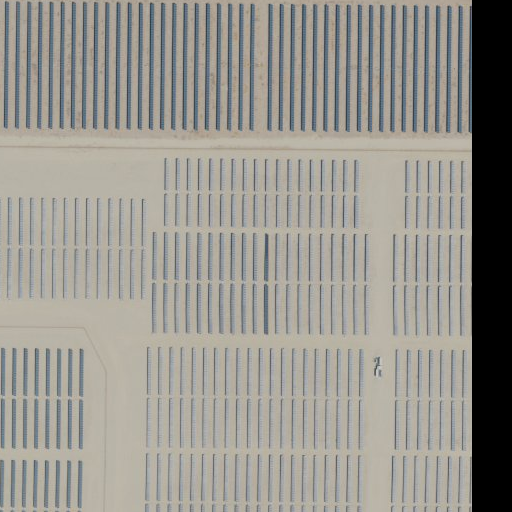
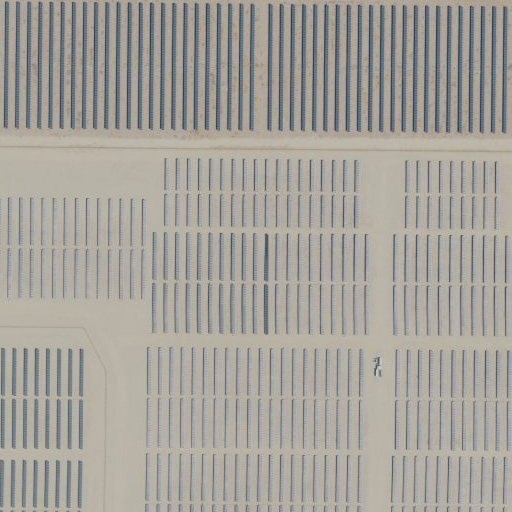
Cut every Chip from one NAIP tile that covers it, and zoom into Cases
7 of the 63 Chips were partly blank (8% to 66%): after its offset, the
Chip crossed the edge of the NAIP tile it was read from. find_naip now
returns the newest tile that covers the whole Chip, and cut_chip refuses
a Chip with blank pixels. The 8 affected Cases are rebuilt, and a test
keeps blank Chips out of the fixtures.

Each Case also gets its own page (#/cases/<id>): the Chip large with
1x/2x/4x zoom, its Reference Labels on the 3x3 grid, keyboard
navigation through the set, links to the same spot on current maps,
and what to check.

Changed region(s): [[0.9062, 0.0, 1.0, 1.0]]

diff --git a/src/clayzer/ui/static/app.js b/src/clayzer/ui/static/app.js
@@ -554,13 +554,116 @@ async function casesPage() {
     <p>The development ${term("Case")} set in the store (${cases.length}). Each Chip's ${term("Reference Label", "Reference Labels")}
     are what grounding checks Claims against; the Harness never sees them (ADR-0006).</p>
     ${cases.length ? "" : '<p class="empty">No Cases yet: <code>uv run clayzer case uspvdb &lt;site-id&gt;</code></p>'}
+    ${cases.length ? '<p class="sub">Click a Chip to open it large, with its labels on the grid and zoom.</p>' : ""}
     <div class="case-grid">${cases.map((c) => `<div class="case-card">
-      <img src="/api/chips/${encodeURIComponent(c.chip.id)}.png" alt="Chip ${esc(c.chip.id)}" loading="lazy">
-      <div class="body"><b>${esc(c.id)}</b><br><small class="mono">${esc(c.chip.id)} · NAIP ${esc(c.chip.date)} · ${esc(c.chip.source)}</small>
+      <a href="#/cases/${encodeURIComponent(c.id)}"><img src="/api/chips/${encodeURIComponent(c.chip.id)}.png" alt="Chip ${esc(c.chip.id)}" loading="lazy"></a>
+      <div class="body"><b><a href="#/cases/${encodeURIComponent(c.id)}">${esc(c.id)}</a></b><br><small class="mono">${esc(c.chip.id)} · NAIP ${esc(c.chip.date)} · ${esc(c.chip.source)}</small>
       <ul>${c.labels.map((l) => `<li>${l.count !== null ? `${esc(l.count)} × ` : ""}${esc(l.object.replace(/_/g, " "))}
         at ${esc(l.position)} <small>(${esc(l.source)})</small></li>`).join("") || "<li>no labels</li>"}</ul>
       <small>Built in ${f2(c.prep_seconds)} s</small></div></div>`).join("")}</div>`;
 }
+
+// ── One Case, large: for checking its Reference Labels by eye ────────────────────────
+
+const VIEW = { zoom: 1, grid: true, labels: true };
+
+function caseFigure(c) {
+  const C = 512 / 3;
+  const per = {};
+  const pills = VIEW.labels ? c.labels.map((l) => {
+    const i = CELLS.indexOf(l.position);
+    if (i < 0) return "";
+    const n = (per[l.position] = (per[l.position] || 0) + 1) - 1;
+    const x = (i % 3) * C + 8, y = Math.floor(i / 3) * C + 10 + n * 26;
+    const text = `${l.count !== null ? `${l.count} × ` : ""}${l.object.replace(/_/g, " ")}`;
+    return `<g class="pill ${l.source === "osm" ? "near" : "good"}"><rect x="${x}" y="${y}" width="${C - 16}" height="22" rx="11"/>
+      <text x="${x + (C - 16) / 2}" y="${y + 15}" text-anchor="middle">${esc(text)}</text></g>`;
+  }).join("") : "";
+  const covered = VIEW.labels ? new Set(c.labels.flatMap((l) => l.cells || [])) : new Set();
+  const refs = [...covered].map((cell) => {
+    const i = CELLS.indexOf(cell);
+    return i < 0 ? "" : `<rect class="ref" x="${(i % 3) * C + 3}" y="${Math.floor(i / 3) * C + 3}" width="${C - 6}" height="${C - 6}" rx="4"/>`;
+  }).join("");
+  const grid = VIEW.grid ? [1, 2].map((k) => `<line x1="${k * C}" y1="0" x2="${k * C}" y2="512"/><line x1="0" y1="${k * C}" x2="512" y2="${k * C}"/>`).join("") : "";
+  return `<div class="chip-fig${VIEW.zoom > 1 ? " zoomed" : ""}" style="width:${VIEW.zoom * 100}%">
+    <img src="/api/chips/${encodeURIComponent(c.chip.id)}.png" alt="Aerial image ${esc(c.chip.id)}">
+    <svg viewBox="0 0 512 512" aria-hidden="true"><g class="grid">${grid}</g><g>${refs}</g>${pills}</svg></div>`;
+}
+
+async function casePage(id) {
+  const me = SEQ;
+  const cases = await api("/api/cases");
+  if (stale(me)) return;
+  const i = cases.findIndex((c) => c.id === id);
+  if (i < 0) {
+    $view.innerHTML = `<p><a href="#/cases">← Cases</a></p><p class="empty">No Case ${esc(id)} in the store.</p>`;
+    return;
+  }
+  const c = cases[i];
+  const prev = cases[(i - 1 + cases.length) % cases.length].id, next = cases[(i + 1) % cases.length].id;
+  const [w, s, e, n] = c.chip.bbox;
+  const lat = ((s + n) / 2).toFixed(5), lon = ((w + e) / 2).toFixed(5);
+  const draw = () => {
+    document.getElementById("case-fig").innerHTML = caseFigure(c);
+    document.querySelectorAll("[data-zoom]").forEach((b) => b.setAttribute("aria-pressed", String(+b.dataset.zoom === VIEW.zoom)));
+    document.getElementById("t-grid").checked = VIEW.grid;
+    document.getElementById("t-labels").checked = VIEW.labels;
+  };
+  $view.innerHTML = `<p><a href="#/cases">← Cases</a> · ${i + 1} of ${cases.length} ·
+      <a href="#/cases/${encodeURIComponent(prev)}">← previous</a> · <a href="#/cases/${encodeURIComponent(next)}">next →</a></p>
+    <h1>${esc(c.id)}</h1>
+    <div class="case-view">
+      <div>
+        <div class="case-tools">
+          <span>Zoom ${[1, 2, 4].map((z) => `<button type="button" class="btn secondary" data-zoom="${z}">${z}×</button>`).join("")}</span>
+          <label><input type="checkbox" id="t-grid"> grid</label>
+          <label><input type="checkbox" id="t-labels"> labels</label>
+          <small>Keys: ← → Case · + − zoom · g grid · l labels</small>
+        </div>
+        <div class="case-zoom" id="case-zoom"><div id="case-fig"></div></div>
+        <p class="legend-row"><span><i class="dot good"></i>USGS label</span> <span><i class="dot near"></i>OpenStreetMap label</span>
+          <span><i class="sq"></i>cells the label covers</span></p>
+      </div>
+      <div>
+        <h3>Reference Labels</h3>
+        <ul>${c.labels.map((l) => `<li>${l.count !== null ? `${esc(l.count)} × ` : ""}${esc(l.object.replace(/_/g, " "))}
+          at ${esc(l.position)}${(l.cells || []).length > 1 ? ` <small>(covers ${l.cells.map((x) => esc(x.replace(/_/g, " "))).join(", ")})</small>` : ""}
+          <small>· ${esc(l.source)}</small></li>`).join("") || "<li>no labels: nothing mapped here</li>"}</ul>
+        <h3>Chip</h3>
+        <p class="mono">${esc(c.chip.id)}<br>NAIP ${esc(c.chip.date)} · ${esc(c.chip.source)}<br>${lat}, ${lon}</p>
+        <h3>Check it elsewhere</h3>
+        <p>Current imagery and maps at the Chip's centre (they may be newer than ${esc(c.chip.date.slice(0, 4))}):<br>
+          <a href="https://www.google.com/maps/@${lat},${lon},400m/data=!3m1!1e3" target="_blank" rel="noopener">Google satellite</a> ·
+          <a href="https://www.openstreetmap.org/?mlat=${lat}&mlon=${lon}#map=17/${lat}/${lon}" target="_blank" rel="noopener">OpenStreetMap</a></p>
+        <h3>What to look for</h3>
+        <ul class="sub"><li>Is each label really there, in the cell it names?</li>
+          <li>Solar and wind counts: are the panels built and the turbines still standing?</li>
+          <li>Water: is there water, or a dry wash or lake bed?</li>
+          <li>Negatives: any small or rooftop solar USGS doesn't list?</li>
+          <li>Anything obvious with no label (buildings, roads, fields)?</li></ul>
+      </div>
+    </div>`;
+  draw();
+  document.querySelectorAll("[data-zoom]").forEach((b) => b.addEventListener("click", () => { VIEW.zoom = +b.dataset.zoom; draw(); }));
+  document.getElementById("t-grid").addEventListener("change", (ev) => { VIEW.grid = ev.target.checked; draw(); });
+  document.getElementById("t-labels").addEventListener("change", (ev) => { VIEW.labels = ev.target.checked; draw(); });
+  CASE_KEYS = { prev, next, draw };
+}
+
+let CASE_KEYS = null;
+document.addEventListener("keydown", (ev) => {
+  if (!CASE_KEYS || !location.hash.startsWith("#/cases/") || ev.target.matches("input, textarea, select")) return;
+  const zooms = [1, 2, 4];
+  if (ev.key === "ArrowLeft") location.hash = `#/cases/${encodeURIComponent(CASE_KEYS.prev)}`;
+  else if (ev.key === "ArrowRight") location.hash = `#/cases/${encodeURIComponent(CASE_KEYS.next)}`;
+  else if (ev.key === "+" || ev.key === "=") VIEW.zoom = zooms[Math.min(zooms.indexOf(VIEW.zoom) + 1, 2)];
+  else if (ev.key === "-") VIEW.zoom = zooms[Math.max(zooms.indexOf(VIEW.zoom) - 1, 0)];
+  else if (ev.key === "g") VIEW.grid = !VIEW.grid;
+  else if (ev.key === "l") VIEW.labels = !VIEW.labels;
+  else return;
+  ev.preventDefault();
+  if (document.getElementById("case-fig")) CASE_KEYS.draw();
+});
 
 async function batchesPage() {
   const me = SEQ;
@@ -892,6 +995,7 @@ async function route() {
     if (page === "") await overview();
     else if (page === "how") await howPage(parts[1]);
     else if (page === "tasks") await tasksPage(parts[1]);
+    else if (page === "cases" && parts[1]) await casePage(parts[1]);
     else if (page === "cases") await casesPage();
     else if (page === "batches" && parts[1]) await batchPage(parts[1], parts[2]);
     else if (page === "batches") await batchesPage();

diff --git a/src/clayzer/ui/static/style.css b/src/clayzer/ui/static/style.css
@@ -389,3 +389,14 @@ abbr { text-decoration: underline dotted; cursor: help; }
 .prov-run > summary { cursor: pointer; font-weight: 600; }
 .prov-run table { margin-top: 10px; }
 @media (max-width: 1000px) { .prov { grid-template-columns: 1fr; } }
+
+/* One Case, large: the Chip with zoom, its labels on the grid, and what to check. */
+.case-view { display: grid; grid-template-columns: minmax(0, 1.6fr) minmax(260px, 1fr); gap: 28px; align-items: start; }
+.case-tools { display: flex; flex-wrap: wrap; gap: 14px; align-items: center; margin-bottom: 8px; }
+.case-tools .btn { padding: 3px 10px; margin-left: 4px; }
+.case-tools .btn[aria-pressed="true"] { background: var(--ink); color: var(--paper); }
+.case-zoom { overflow: auto; max-height: min(78vh, 900px); border-radius: 10px; border: 1px solid var(--line); }
+.case-zoom .chip-fig { border-radius: 0; }
+.chip-fig.zoomed img { image-rendering: pixelated; }
+.case-card a img:hover { outline: 3px solid var(--decision); outline-offset: -3px; }
+@media (max-width: 900px) { .case-view { grid-template-columns: 1fr; } }

diff --git a/src/clayzer/chips.py b/src/clayzer/chips.py
@@ -11,6 +11,7 @@ Positions inside a Chip are pixel coordinates, column right and row down, north 
 
 import io
 import json
+import math
 import re
 from dataclasses import asdict, dataclass
 from datetime import date
@@ -25,6 +26,11 @@ from clayzer.grid import cell_at
 SIZE = 512
 RES = 0.6
 STAC = "https://planetarycomputer.microsoft.com/api/stac/v1"
+# Slack around a Chip's footprint when checking a NAIP item covers it, for the approximate
+# metres-to-degrees conversion.
+FOOTPRINT_MARGIN_M = 20.0
+# A Chip with more blank (all-zero) pixels than this is refused: it crossed a tile's edge.
+MAX_BLANK = 0.001
 
 
 @dataclass(frozen=True)
@@ -90,22 +96,56 @@ class Chip:
         return cls(**d)
 
 
-def find_naip(lon: float, lat: float, after_year: int | None = None):
-    """The latest NAIP item over a point, captured after `after_year` if given."""
+def chip_footprint(lon: float, lat: float, offset_m: tuple[float, float] = (0.0, 0.0)):
+    """The lon/lat box a Chip around (lon, lat), moved by `offset_m`, will cover, with a margin."""
+    from shapely.geometry import box
+
+    half = SIZE * RES / 2 + FOOTPRINT_MARGIN_M
+    m_lat, m_lon = 111_320.0, 111_320.0 * math.cos(math.radians(lat))
+    cx, cy = lon + offset_m[0] / m_lon, lat + offset_m[1] / m_lat
+    return box(cx - half / m_lon, cy - half / m_lat, cx + half / m_lon, cy + half / m_lat)
+
+
+def find_naip(
+    lon: float,
+    lat: float,
+    after_year: int | None = None,
+    offset_m: tuple[float, float] = (0.0, 0.0),
+):
+    """The latest NAIP item that covers the whole Chip around a point, captured after
+    `after_year` if given.
+
+    NAIP comes in tiles; a Chip that crosses a tile's edge would be read partly blank (seen
+    2026-11-04 on 7 of 63 Chips). So the item must cover the Chip's whole footprint, not just
+    the point; an older item that does is better than a newer one that doesn't.
+    """
     import planetary_computer
     import pystac_client
 
     catalog = pystac_client.Client.open(STAC, modifier=planetary_computer.sign_inplace)
     start = f"{after_year + 1}-01-01" if after_year else "2010-01-01"
+    footprint = chip_footprint(lon, lat, offset_m)
     items = catalog.search(
         collections=["naip"],
-        intersects={"type": "Point", "coordinates": [lon, lat]},
+        intersects=footprint.__geo_interface__,
         datetime=f"{start}/{date.today().isoformat()}",
     ).items()
-    items = sorted(items, key=lambda i: i.datetime, reverse=True)
-    if not items:
-        raise LookupError(f"no NAIP over ({lon}, {lat}) after {after_year}")
-    return items[0]
+    item = covering_item(list(items), footprint)
+    if item is None:
+        raise LookupError(
+            f"no NAIP item after {after_year} covers the whole Chip at ({lon}, {lat})"
+        )
+    return item
+
+
+def covering_item(items: list, footprint):
+    """The newest item whose footprint contains the Chip's, or None."""
+    from shapely.geometry import shape
+
+    for item in sorted(items, key=lambda i: i.datetime, reverse=True):
+        if shape(item.geometry).contains(footprint):
+            return item
+    return None
 
 
 # https://naipeuwest.blob.core.windows.net/naip/v002/ca/2022/ca_060cm_2022/35118/m_....tif
@@ -167,6 +207,11 @@ def offset_for(seed: str) -> tuple[float, float]:
     return round(-east, 1), round(-north, 1)
 
 
+def blank_share(rgb) -> float:
+    """The share of a (3, H, W) image's pixels that are blank: zero in every band."""
+    return float((rgb.max(axis=0) == 0).mean())
+
+
 def cut_chip(
     item,
     lon: float,
@@ -197,6 +242,9 @@ def cut_chip(
         rgb = ds.read([1, 2, 3], window=window, out_shape=(3, SIZE, SIZE), boundless=True)
         crs = ds.crs.to_string()
         bbox = transform_bounds(ds.crs, "EPSG:4326", left, cy - half, cx + half, top)
+    blank = blank_share(rgb)
+    if blank > MAX_BLANK:
+        raise ValueError(f"the Chip is {blank:.0%} blank: it crosses the edge of {item.id}")
 
     png = io.BytesIO()
     Image.fromarray(np.moveaxis(rgb, 0, -1)).save(png, format="PNG")

diff --git a/tests/test_chips.py b/tests/test_chips.py
@@ -1,0 +1,42 @@
+"""Chips come from one NAIP tile that covers them whole, never partly blank."""
+
+from datetime import datetime
+from types import SimpleNamespace
+
+import numpy as np
+from shapely.geometry import box
+
+from clayzer.chips import RES, SIZE, blank_share, chip_footprint, covering_item
+
+
+def item(name, year, bounds):
+    return SimpleNamespace(
+        id=name, datetime=datetime(year, 6, 1), geometry=box(*bounds).__geo_interface__
+    )
+
+
+def test_the_footprint_is_a_chip_wide_and_moves_with_the_offset():
+    f = chip_footprint(-118.0, 35.0)
+    w, s, _, n = f.bounds
+    assert (n - s) * 111_320 > SIZE * RES  # a Chip's height plus the margin
+    moved = chip_footprint(-118.0, 35.0, offset_m=(100.0, 0.0))
+    assert moved.bounds[0] > w and moved.bounds[1] == s
+
+
+def test_the_newest_tile_that_covers_the_whole_chip_wins():
+    footprint = chip_footprint(-118.0, 35.0)
+    edge = item("newest, but the Chip crosses its edge", 2022, (-118.0, 34.9, -117.9, 35.1))
+    whole = item("older, covers it", 2020, (-118.1, 34.9, -117.9, 35.1))
+    newer_whole = item("newer, covers it", 2022, (-118.05, 34.95, -117.95, 35.05))
+    assert covering_item([edge, whole], footprint) is whole
+    assert covering_item([edge, whole, newer_whole], footprint) is newer_whole
+    assert covering_item([edge], footprint) is None
+
+
+def test_blank_pixels_are_measured():
+    rgb = np.full((3, 10, 10), 120, dtype=np.uint8)
+    assert blank_share(rgb) == 0.0
+    rgb[:, :5, :] = 0
+    assert blank_share(rgb) == 0.5
+    rgb[0, 0, 0] = 9  # one band non-zero: not blank
+    assert blank_share(rgb) == 0.49

diff --git a/src/clayzer/cases.py b/src/clayzer/cases.py
@@ -59,10 +59,10 @@ def build_positive(
     else:
         raise ValueError(f"unknown Answer Key {answer_key!r}")
     lon, lat = rec["xlong"], rec["ylat"]
-    item = find_naip(lon, lat, after_year=rec.get("p_year"))
     prefix = f"{state.lower()}-{answer_key}-{source_id}"
     # Offset so the site lands anywhere in the 3×3 grid, not always in the centre cell.
     offset = offset_for(f"{answer_key}-{source_id}")
+    item = find_naip(lon, lat, after_year=rec.get("p_year"), offset_m=offset)
     chip = cut_chip(item, lon, lat, prefix, store, naip_source, offset)
     return _case(f"fixed-{region}-{answer_key}-{source_id}", region, chip, _labels(chip), started)
 

diff --git a/tests/test_fixtures.py b/tests/test_fixtures.py
@@ -60,3 +60,14 @@ def test_push_fills_an_empty_store_and_a_batch_runs_on_it(tmp_path, monkeypatch)
     bid = batches.start(cases[:3], settings, store, 1, "", "dev", progress=lambda _: None)
     runs = batches.load(store, bid)["summary"]["batch"]["runs"]
     assert runs["planned"] == 3 and runs["sandbox_failures"] == 0
+
+
+def test_no_chip_is_partly_blank():
+    import numpy as np
+    from PIL import Image
+
+    from clayzer.chips import MAX_BLANK, blank_share
+
+    for case in CASES:
+        img = np.asarray(Image.open(ROOT / case["chips"][0]["uri"]).convert("RGB"))
+        assert blank_share(np.moveaxis(img, -1, 0)) <= MAX_BLANK, case["id"]
